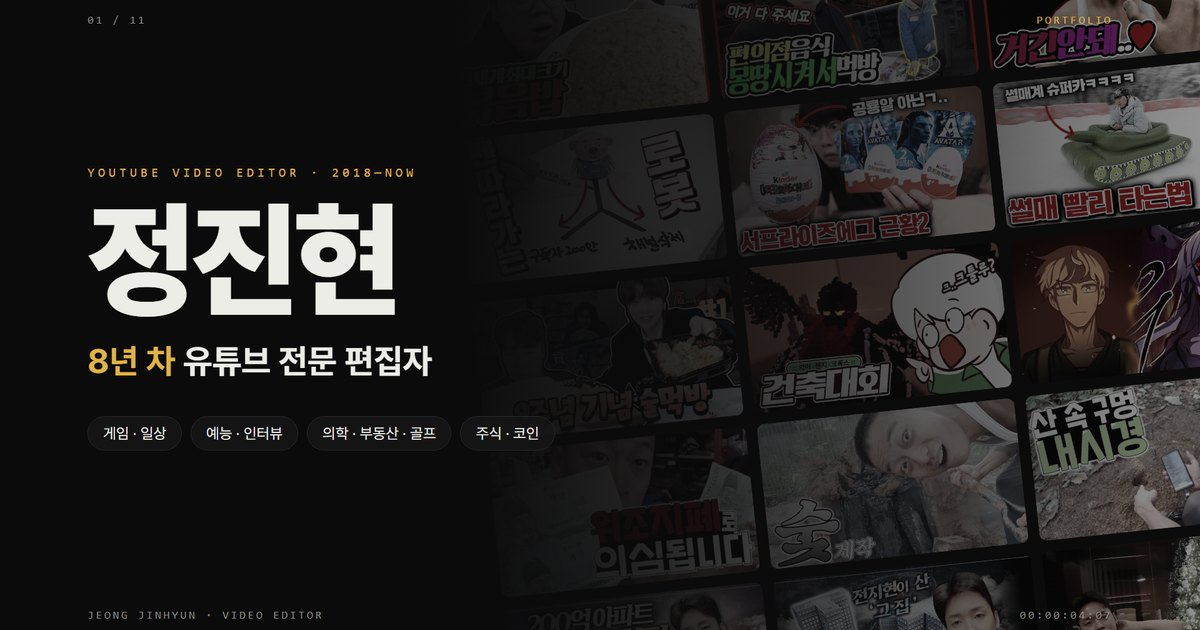
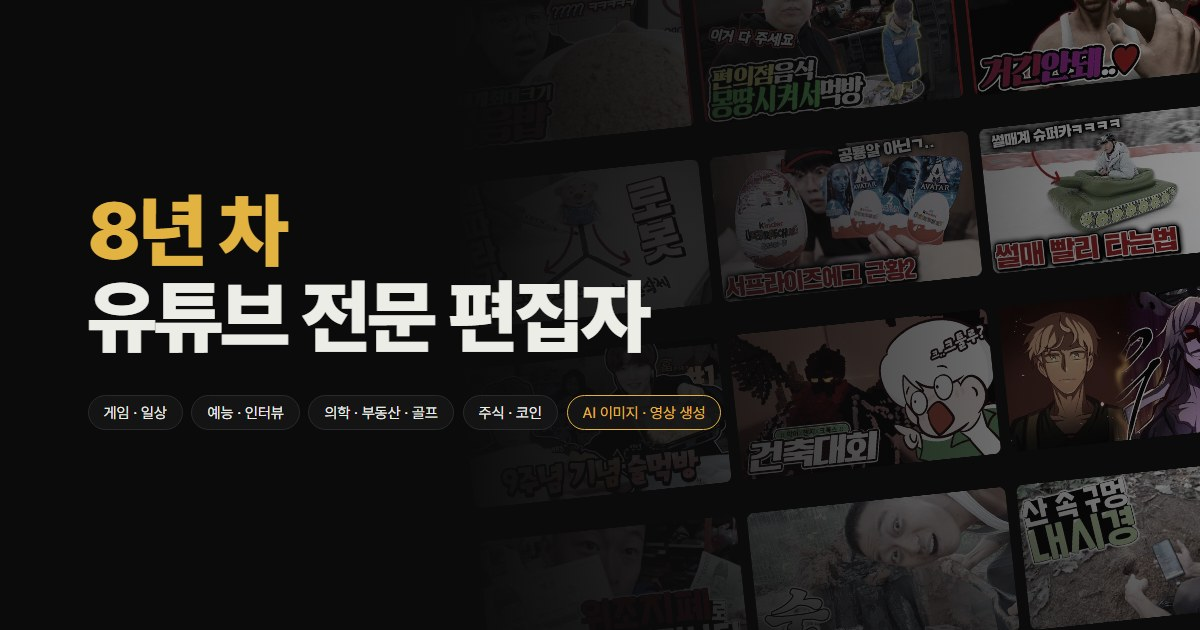
제목 '편집 포트폴리오', 첫 화면 이름 삭제, 미리보기 사진 교체

diff --git a/index.html b/index.html
@@ -1,9 +1,9 @@
 <!doctype html><html lang="ko"><head><meta charset="utf-8">
 <meta name="viewport" content="width=device-width, initial-scale=1">
-<title>정진현 — 유튜브 편집 포트폴리오</title>
+<title>편집 포트폴리오</title>
 <meta name="description" content="8년 차 유튜브 전문 편집자 · 함께한 채널 30개+ · 구독자 100만+ 채널 4곳">
 <meta property="og:type" content="website">
-<meta property="og:title" content="정진현 — 유튜브 편집 포트폴리오">
+<meta property="og:title" content="편집 포트폴리오">
 <meta property="og:description" content="8년 차 유튜브 전문 편집자 · 함께한 채널 30개+ · 구독자 100만+ 채널 4곳">
 <meta property="og:url" content="https://editork19-web.github.io/jinhyun-edit/">
 <meta property="og:image" content="https://editork19-web.github.io/jinhyun-edit/og.jpg">
@@ -734,7 +734,6 @@ a.ch.go:hover, a.ch.go:focus-visible { background: #24221c; box-shadow: inset 0 
   <div class="cover-txt">
     
     <h1 class="role"><em>8년 차</em><br>유튜브 전문 편집자</h1>
-    <p class="name">정진현</p>
     <div class="tags"><span>게임 · 일상</span><span>예능 · 인터뷰</span><span>의학 · 부동산 · 골프</span><span>주식 · 코인</span><span class="ai-tag">AI 이미지 · 영상 생성</span></div>
   </div>
 </section>
